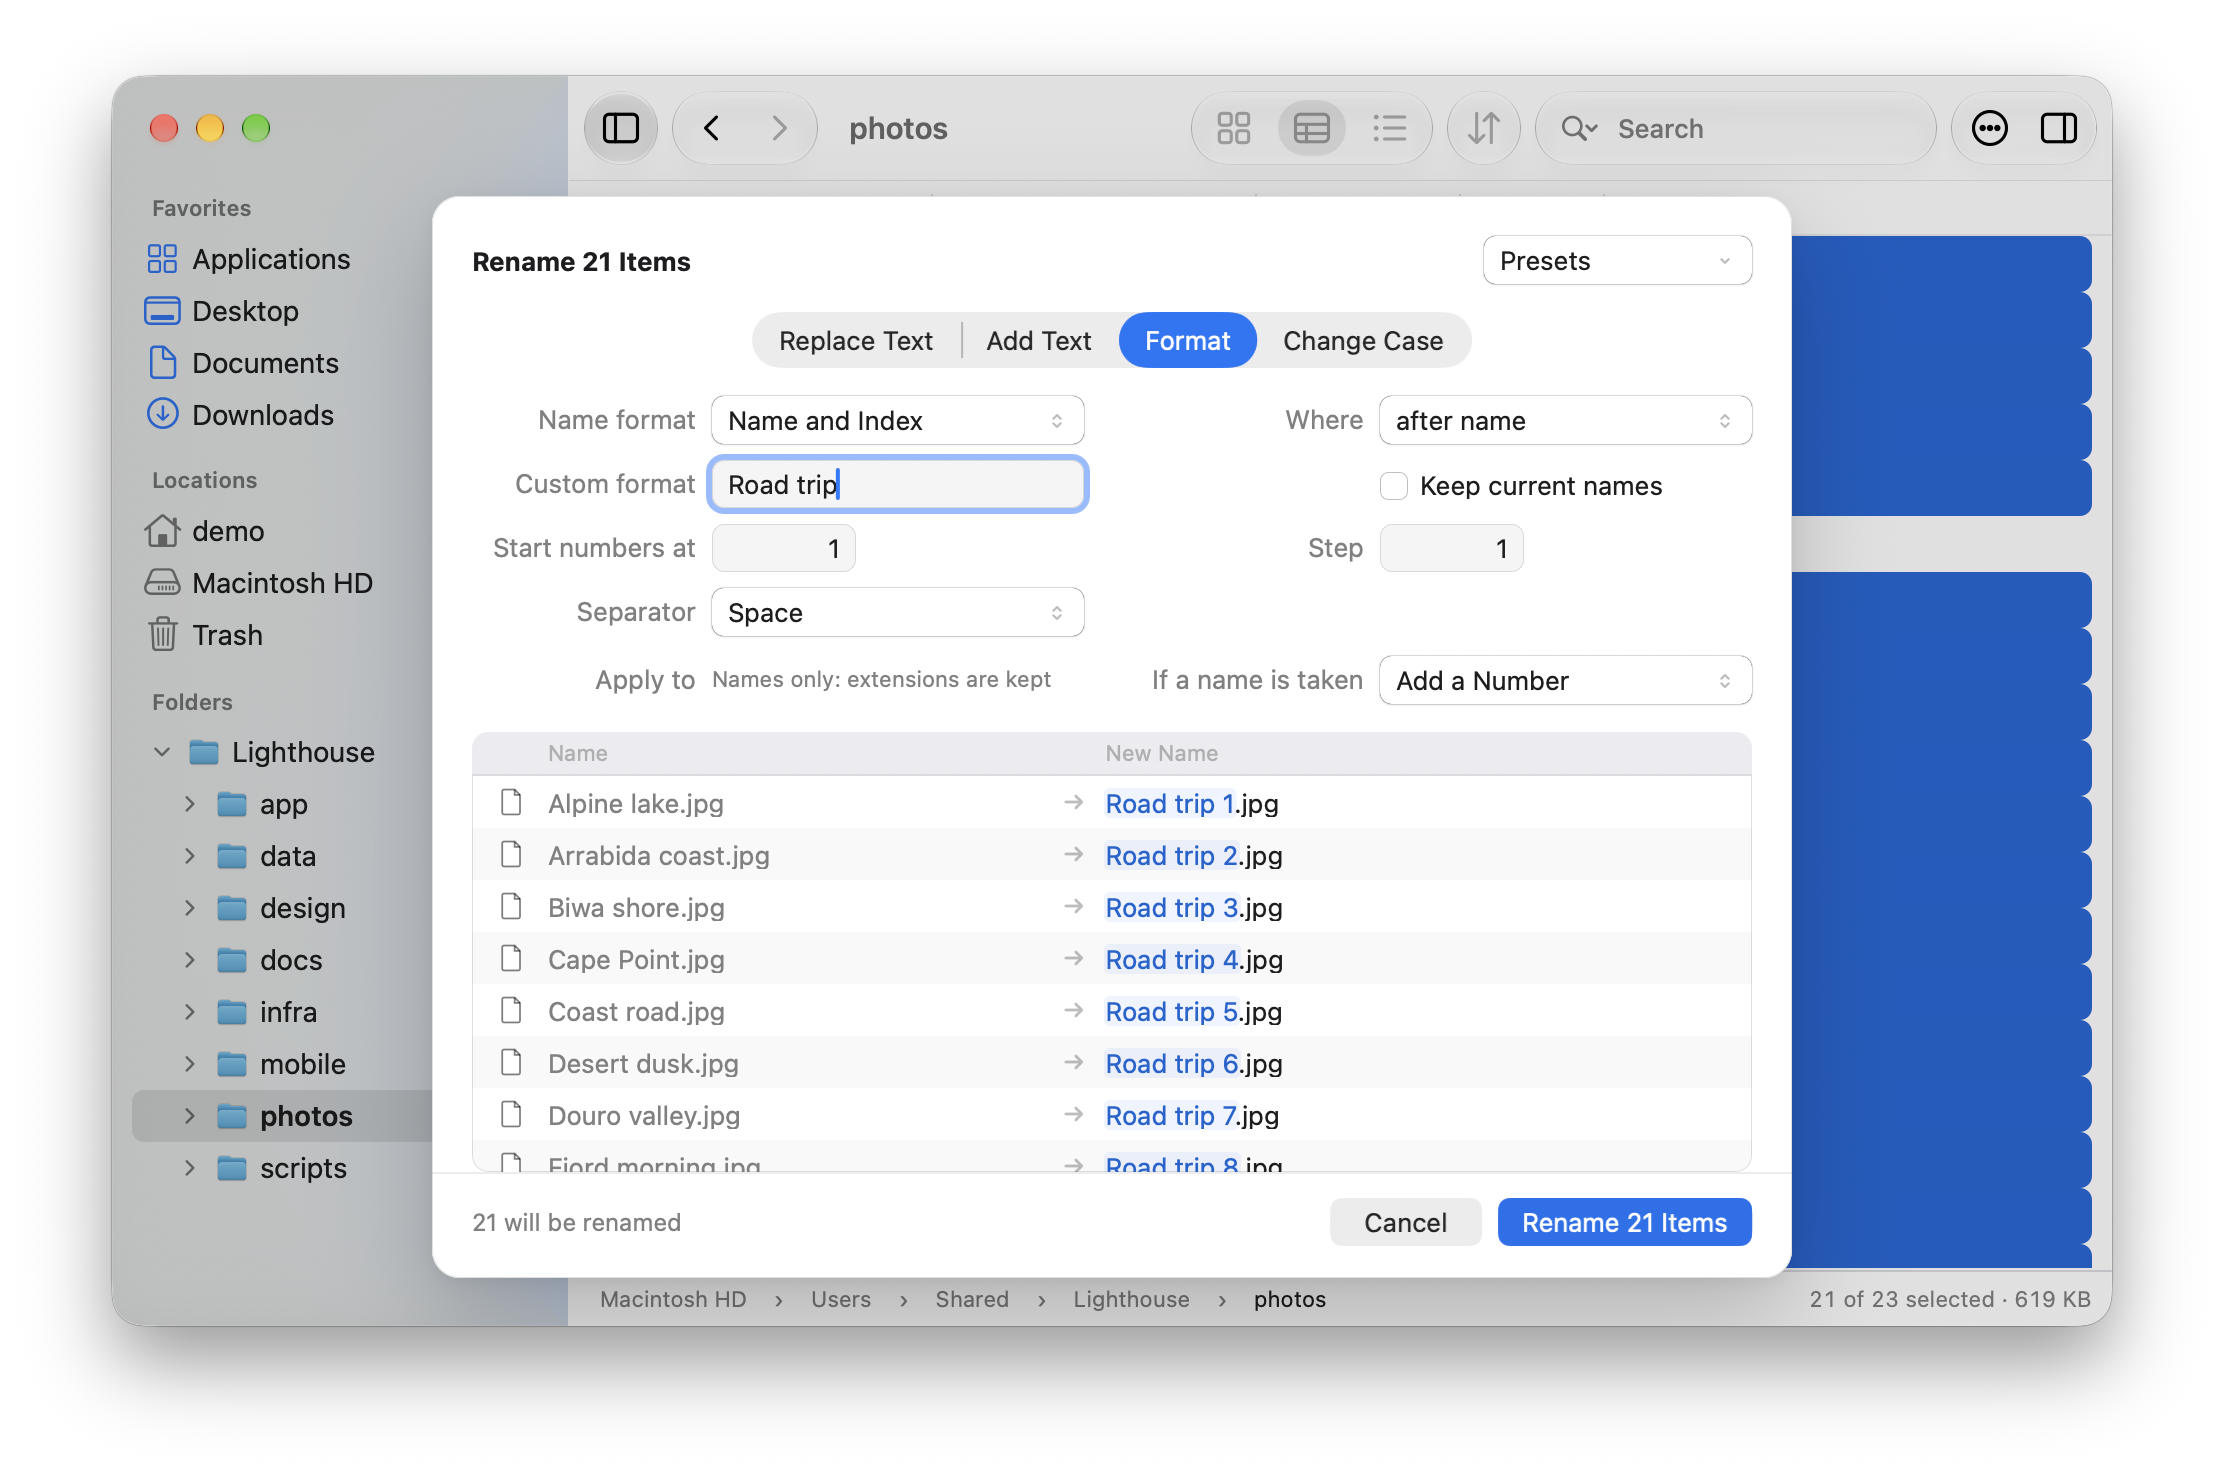
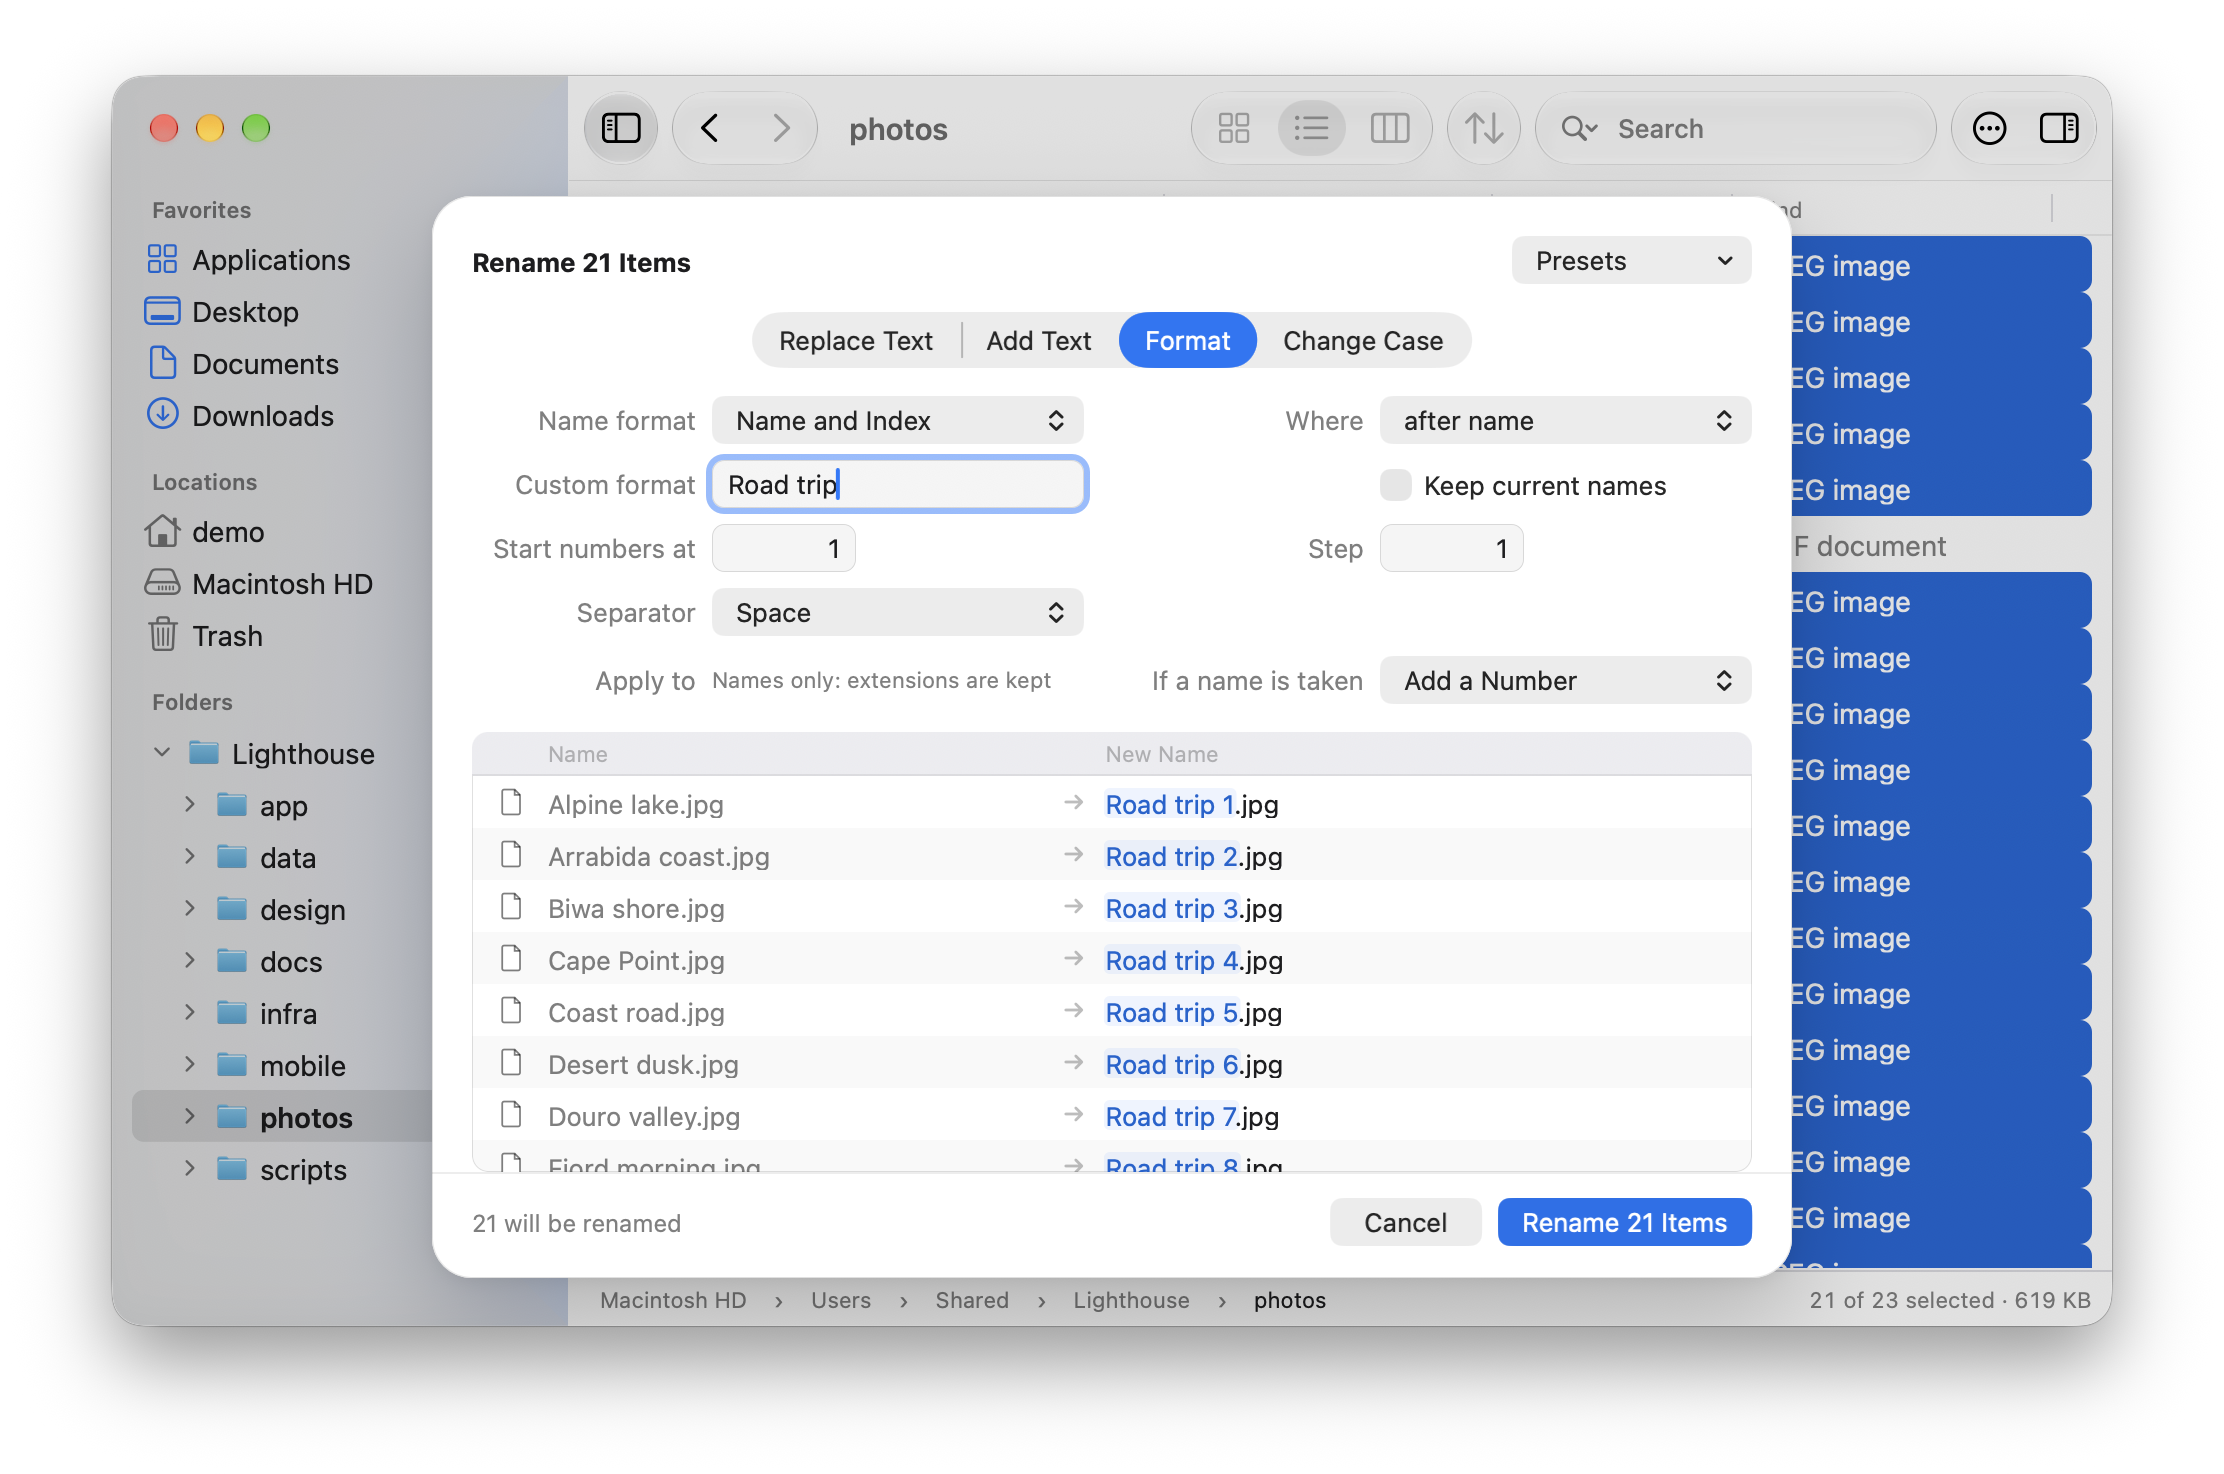
The README screenshots show the app as it is now: system controls in the sheets and Settings, system symbols in the toolbar and the Info panel

diff --git a/docs/audit-plan-master.md b/docs/audit-plan-master.md
@@ -1838,7 +1838,7 @@ needed; the fixtures location is spelled three ways (`FILETRAIL_DEV_CACHE`, `FIL
 
 ## Phase 12. Wrap-up
 
-### [ ] 12.1. Final checks
+### [x] 12.1. Final checks
 
 - `scripts/ci.sh` (everything) passes with zero warnings in sources and tests.
 - `FILETRAIL_LARGE_FILE_TESTS=1 scripts/ci.sh` passes.
@@ -1847,7 +1847,7 @@ needed; the fixtures location is spelled three ways (`FILETRAIL_DEV_CACHE`, `FIL
   and an undo of each work on real files in a scratch folder.
 - `scripts/readme-screenshots.sh` runs.
 
-### [ ] 12.2. Keep the decisions, hand over the rest
+### [x] 12.2. Keep the decisions, hand over the rest
 
 - Move "Decisions on record", the answers to the open questions (from the Log) and "Left out on purpose" into
   `docs/decisions.md`, with a line under each left-out item that was settled meanwhile. Then ask the owner
@@ -2592,3 +2592,10 @@ anything that differed from the plan, and anything found on the way that is not 
   the benchmark tests and the app's `--bench` modes went (Q18's answer is reversed); the fixture tree `bench` is
   `large`, with only the folders the folder-size golden measures (its two case paths renamed). `CLAUDE.md` gains a
   "Don't add" section; `docs/decisions.md` records it.
+- 2026-11-12. 12.1: `FILETRAIL_LARGE_FILE_TESTS=1 scripts/ci.sh` passes (3,806 tests, no warnings, format clean); the
+  25 GUI tests pass; the debug app built and, driven on a scratch folder and a mounted APFS disk image, copied, cut and
+  pasted across the two disks, trashed (on the image, into its own Trash) and batch renamed, and undid the copy, the
+  trash and the rename. A move to another disk is not undoable by design (`CantUndoReason.otherDiskMove`: copied, then
+  the originals deleted); the Edit menu says "Can’t Undo", disabled. `scripts/readme-screenshots.sh` runs, all nine
+  scenes; the pictures are committed, as Phase 9 changed the look. 12.2: `docs/decisions.md` holds the decisions, the
+  answers, "Left out on purpose" and "Must stay"; the release notes went to the owner.
